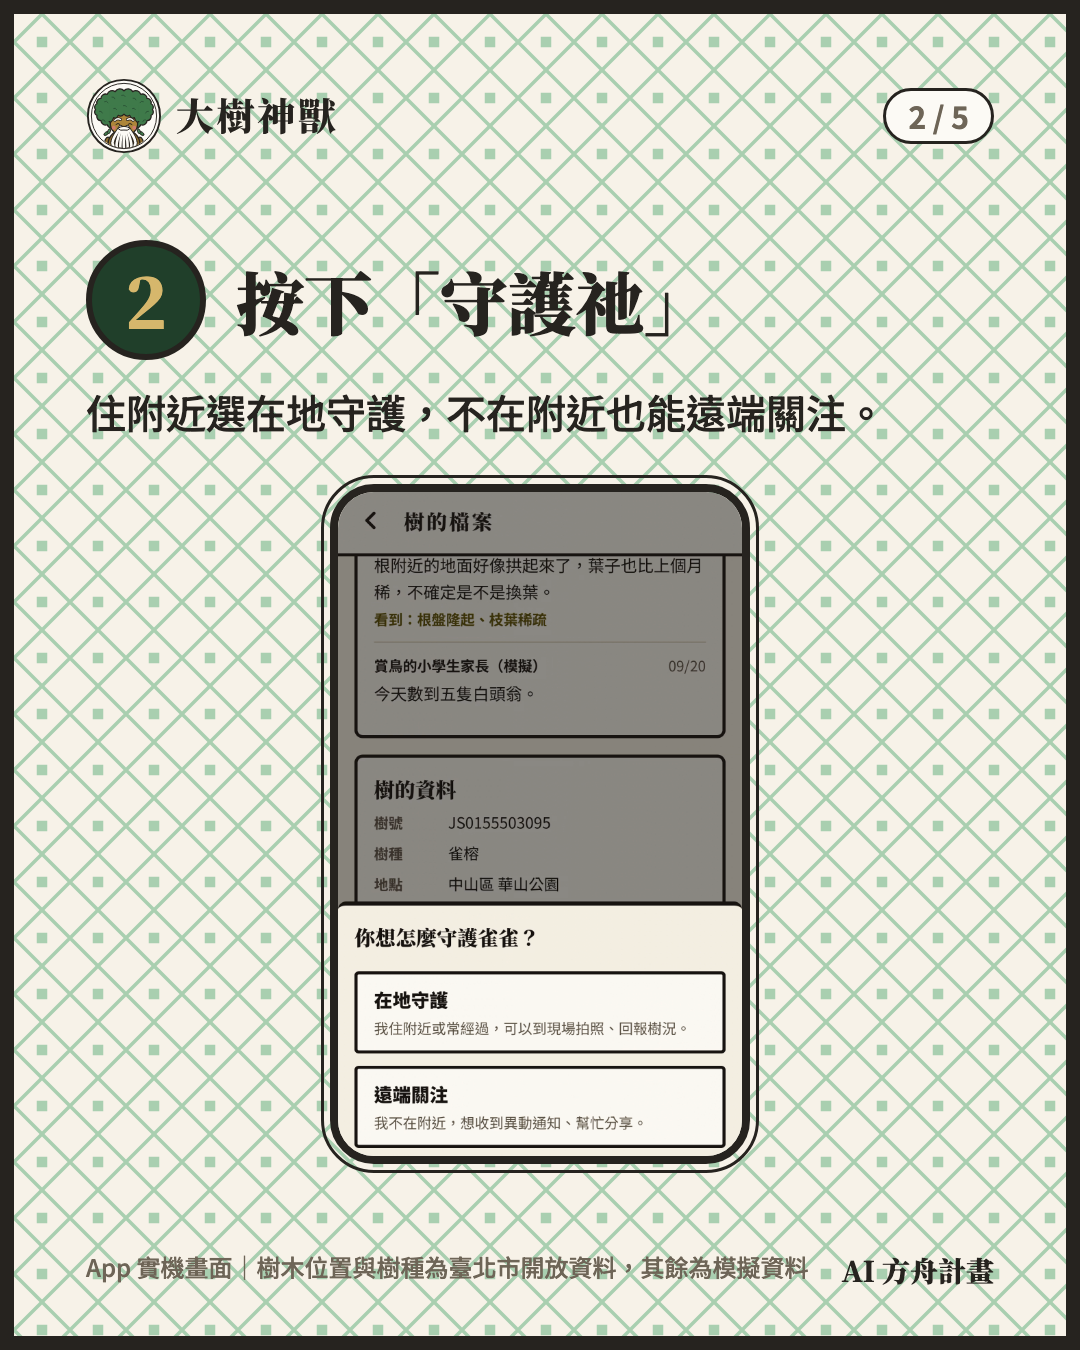
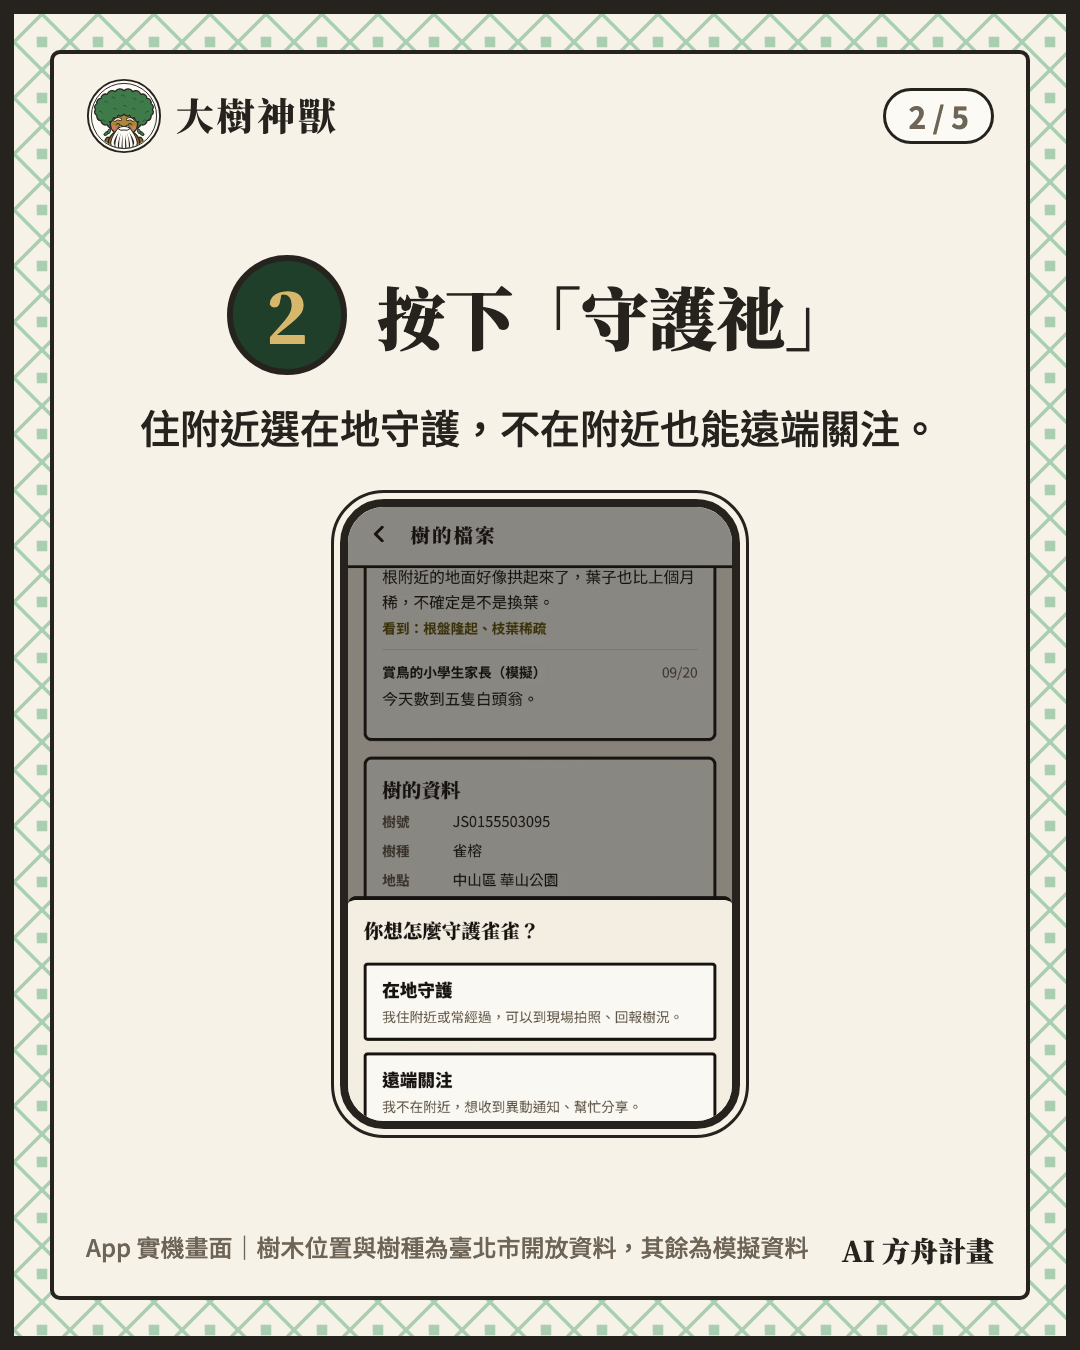
介紹頁成員連結移到卡片右下角；票選圖卡多項排版修正
介紹頁（about.html、css/about.css）
- LinkedIn、個人連結按鈕從卡片下方移進卡片裡，放在右下角；電腦版兩張卡的按鈕高度對齊，手機版靠右

票選圖卡（docs/vote-campaign/cards/）
- C1 Logo 置中
- C2-4 燕尾屋脊照 design-system Ridge 重做：右端鏡像、梁和兩端接起來
- C2-5 下排字置中，「去守護一棵樹」和投票網址中線對齊
- C3-1～C3-5、C5、C7 改成格紋只在外框；C3 標題、子標題置中，手機框縮小
- C6 倒數卡換不同神獸：剩 3 天欒四季、最後 24 小時雀雀、最後 3 小時鬚鬚公
- C7 手機框縮短，網址縮小、往下移，前面加「馬上試玩：」

Changed region(s): [[0.0306, 0.0311, 0.9778, 0.9644]]

diff --git a/docs/vote-campaign/cards/cards.html b/docs/vote-campaign/cards/cards.html
@@ -59,8 +59,13 @@
   .tag { display: inline-block; font: 700 30px/1 'Noto Sans TC'; border: 3px solid var(--outline); border-radius: 6px; padding: 12px 18px; background: var(--state-ok-bg); color: var(--state-ok-text); }
   .qr { background: #fff; border: 5px solid var(--outline); border-radius: 10px; padding: 14px; }
   .qr img, .qr canvas { display: block; }
-  .ridge { height: 34px; margin: 28px 0; background: url(../../../design-system/assets/patterns/ridge-end.svg) left center / auto 100% no-repeat, url(../../../design-system/assets/patterns/ridge-end.svg) right center / auto 100% no-repeat; position: relative; }
-  .ridge::after { content: ''; position: absolute; left: 60px; right: 60px; top: 50%; height: 6px; margin-top: -3px; background: var(--outline); }
+  /* 燕尾屋脊（照 design-system Ridge）：左右燕尾＋中間伸縮的梁，右端鏡像；顏色跟著 color。
+     燕尾用內嵌 SVG，不用 mask，因為 file:// 截圖時遮罩圖會被擋 */
+  .ridge { display: flex; align-items: flex-end; height: 36px; color: var(--outline); }
+  .ridge svg { width: 48px; height: 36px; flex: none; display: block; }
+  .ridge svg:last-child { transform: scaleX(-1); }
+  .ridge__beam { flex: 1; height: 6px; margin-bottom: 0; background: currentColor; }
+  .dark .ridge { color: var(--ink-50); }
   .beast { display: block; object-fit: contain; }
   .note { font: 400 22px/1.5 'Noto Sans TC'; color: var(--text-muted); }
   .dark .note { color: var(--ink-300); }
@@ -88,10 +93,10 @@
   .stepicon { width: 230px; height: 230px; }
   .shot { border: 6px solid var(--outline); border-radius: 14px; display: block; }
   /* 實機截圖：墨框手機，只露出上半部 */
-  .phone { width: 420px; height: 680px; margin: 0 auto; border: 8px solid var(--outline); border-radius: 44px; overflow: hidden; background: var(--surface-raised); outline: 3px solid var(--outline); outline-offset: 6px; flex: none; }
+  .phone { width: 400px; height: 630px; margin: 0 auto; border: 8px solid var(--outline); border-radius: 44px; overflow: hidden; background: var(--surface-raised); outline: 3px solid var(--outline); outline-offset: 6px; flex: none; }
   .phone img { width: 100%; display: block; }
-  .phones { display: flex; justify-content: center; gap: 28px; margin-top: 44px; }
-  .phones .phone { width: 296px; height: 700px; border-width: 6px; border-radius: 32px; outline: none; }
+  .phones { display: flex; justify-content: center; gap: 24px; margin-top: 44px; }
+  .phones .phone { width: 276px; height: 540px; border-width: 6px; border-radius: 32px; outline: none; }
   .phones p { text-align: center; font: 900 32px/1.3 'Noto Serif TC'; margin-top: 18px; }
 
   /* 神獸卡 */
@@ -131,16 +136,18 @@ const LOGO_REV = DS + 'logos/logo-horizontal-reverse.svg';
 const B = (slug, mood = 'healthy') => `${DS}character/beasts/${slug}/${mood}-cutout.png`;
 const ICON = (n) => `${DS}icons/${n}.svg`;
 const SHOT = (n) => `../screenshots/${n}.png`;
+// 燕尾一端，和 design-system/assets/patterns/ridge-end.svg 同一個路徑，改用 currentColor
+const RIDGE_END = '<svg viewBox="0 0 32 24" fill="none" stroke="currentColor" stroke-width="4" stroke-linecap="round" stroke-linejoin="round"><path d="M32 22 H14 C8 22 4 16 2 3"/><path d="M2 3 C8 12 14 16 26 18"/></svg>';
 const APP = 'https://2026-debugwithpuma.tree-god.workers.dev/';
 const APP_SHORT = '2026-debugwithpuma.tree-god.workers.dev';
 // 投票網址（10/24 確認）。改這裡要重新輸出 C1、C2-5、C6
 const VOTE_SHORT = 'puma.taipei/hackathon/vote';
 const DATA_NOTE = '樹木位置與樹種為臺北市開放資料，其餘為模擬資料';
 
-const head = (page, rev) => `<div class="vc__head"><img class="vc__logo" src="${rev ? LOGO_REV : LOGO}" alt="大樹神獸">${page ? `<span class="vc__page">${page}</span>` : ''}</div>`;
-const foot = (left = DATA_NOTE) => `<div class="vc__foot"><span>${left}</span><span class="vc__team">AI 方舟計畫</span></div>`;
+const head = (page, rev, center) => `<div class="vc__head"${center ? ' style="justify-content:center"' : ''}><img class="vc__logo" src="${rev ? LOGO_REV : LOGO}" alt="大樹神獸">${page ? `<span class="vc__page">${page}</span>` : ''}</div>`;
+const foot = (left = DATA_NOTE, center) => `<div class="vc__foot"${center ? ' style="justify-content:center;align-items:baseline;gap:28px"' : ''}><span>${left}</span><span class="vc__team">AI 方舟計畫</span></div>`;
 // 這幾張用「格紋只在外框」的底圖，字比較清楚（10/24 Qmoa 選）；其他卡用網址的 bg 參數，預設格紋
-const EDGE = new Set(['c1', 'c2-2', 'c2-3', 'c2-5']);
+const EDGE = new Set(['c1', 'c2-2', 'c2-3', 'c2-5', 'c5', 'c7', 'c3-1', 'c3-2', 'c3-3', 'c3-4', 'c3-5']);
 const card = (id, inner, { cls = '', inCls = '' } = {}) => ({ id, html: `<section class="vc ${cls}" data-id="${id}"${EDGE.has(id) ? ' data-bg="edge"' : ''}><div class="vc__in ${inCls}">${inner}</div></section>` });
 
 // 褐根病三個徵兆的插圖（平塗＋墨線）
@@ -168,7 +175,7 @@ const steps = [
 const CARDS = [
   // C1 主視覺／投票卡
   // C1 主視覺：只留一句話、神獸、投票期限三件事，其他資訊放貼文
-  card('c1', `${head()}
+  card('c1', `${head('', false, true)}
     <div class="vc__body" style="text-align:center">
       <h1 class="h1">讓台北每棵樹<br>都有一群<br><span class="green">守護祂的鄰居</span></h1>
       <div class="c1-beasts" style="margin-top:44px"><img src="${B('gadang')}" alt="" style="height:280px"><img src="${B('xuxugong')}" alt="" style="height:380px"><img src="${B('queque')}" alt="" style="height:280px"></div>
@@ -198,7 +205,7 @@ const CARDS = [
   card('c2-4', `${head('4 / 5', true)}
     <div class="vc__body" style="text-align:center">
       <h1 class="h1">不是沒人在乎，<br><span class="gold">是沒人知道。</span></h1>
-      <div class="ridge" style="margin:64px 80px;filter:invert(1)"></div>
+      <div class="ridge" style="margin:64px 80px">${RIDGE_END}<span class="ridge__beam"></span>${RIDGE_END}</div>
       <p class="lead">新種的小樹，樹冠要很多年才長得回來。<br>比起事後補種，<br>更要先守住現有的大樹。</p>
     </div>${foot('')}`, { inCls: 'dark' }),
   card('c2-5', `${head('5 / 5')}
@@ -209,16 +216,16 @@ const CARDS = [
       <div class="c1-ground"></div>
       <div style="display:flex;justify-content:center;align-items:center;gap:36px;margin-top:40px">
         <div class="qr" data-qr="${APP}" data-size="170"></div>
-        <div style="text-align:left"><div class="btn">去守護一棵樹</div><p class="p" style="margin-top:14px">投票：${VOTE_SHORT}</p></div>
+        <div style="text-align:center"><div class="btn">去守護一棵樹</div><p class="p" style="margin-top:14px">投票：${VOTE_SHORT}</p></div>
       </div>
-    </div>${foot()}`),
+    </div>${foot(DATA_NOTE, true)}`),
 
   // C3 怎麼玩（5 張）
   ...steps.map((s, i) => card(`c3-${i + 1}`, `${head(`${i + 1} / 5`)}
     <div class="vc__body">
-      ${i === 0 ? '<p class="lead green" style="font-weight:900">大樹神獸怎麼玩？</p>' : ''}
-      <div style="display:flex;align-items:center;gap:30px;margin:${i === 0 ? 14 : 0}px 0 20px"><span class="stepnum" style="width:120px;height:120px;font-size:68px">${i + 1}</span><h2 class="h2" style="font-size:68px">${s.t}</h2></div>
-      <p class="lead" style="margin-bottom:40px">${s.d}</p>
+      ${i === 0 ? '<p class="lead green" style="font-weight:900;text-align:center">大樹神獸怎麼玩？</p>' : ''}
+      <div style="display:flex;align-items:center;justify-content:center;gap:30px;margin:${i === 0 ? 14 : 0}px 0 20px"><span class="stepnum" style="width:120px;height:120px;font-size:68px">${i + 1}</span><h2 class="h2" style="font-size:68px">${s.t}</h2></div>
+      <p class="lead" style="margin-bottom:40px;text-align:center">${s.d}</p>
       <div class="phone"><img src="${SHOT(s.shot)}" alt=""></div>
     </div>${foot(i === 4 ? APP_SHORT : 'App 實機畫面｜' + DATA_NOTE)}`)),
 
@@ -232,7 +239,7 @@ const CARDS = [
         <div><div class="phone"><img src="${SHOT('02-神獸頁')}" alt=""></div><p>守護祂</p></div>
         <div><div class="phone"><img src="${SHOT('05-回報完成')}" alt=""></div><p>回報樹況</p></div>
       </div>
-      <p class="p" style="text-align:center;margin-top:30px"><b>${APP_SHORT}</b></p>
+      <p style="text-align:center;margin-top:64px;font:500 28px/1.4 'Noto Sans TC'">馬上試玩：<b>${APP_SHORT}</b></p>
     </div>${foot('App 實機畫面｜' + DATA_NOTE)}`),
 
   // C4 神獸介紹（4 張）
@@ -266,11 +273,11 @@ const CARDS = [
     </div>${foot('大樹神獸｜' + APP_SHORT)}`),
 
   // C6 限動倒數（9:16）
-  ...[['c6-3d', '剩', '3', '天'], ['c6-1d', '最後', '24', '小時'], ['c6-3h', '最後', '3', '小時']].map(([id, pre, n, unit]) => card(id, `${head('', true)}
+  ...[['c6-3d', '剩', '3', '天', 'luan'], ['c6-1d', '最後', '24', '小時', 'queque'], ['c6-3h', '最後', '3', '小時', 'xuxugong']].map(([id, pre, n, unit, beast]) => card(id, `${head('', true)}
     <div class="vc__body">
       <p class="h3" style="color:var(--ink-50)">線上票選</p>
       <div class="count" style="margin:36px 0 10px"><small>${pre}</small>${n}<small>${unit}</small></div>
-      <img src="${B('xuxugong')}" alt="" style="height:560px;margin:30px auto 0">
+      <img src="${B(beast)}" alt="" style="height:560px;margin:30px auto 0">
       <div class="plaque" style="margin:40px auto 0">10/31（六）18:00 截止</div>
       <p class="lead" style="margin-top:30px">Google 或 LINE 登入，每人可投 3 件作品<br><b>${VOTE_SHORT}</b></p>
     </div>${foot('')}`, { cls: 'story', inCls: 'dark' })),

diff --git a/about.html b/about.html
@@ -269,24 +269,24 @@
         <div class="ab-member-col">
           <article class="ab-card ab-member">
             <div class="ab-member__avatar"><img src="assets/team/qmoa.jpg" alt="Qmoa" width="96" height="96"></div>
-            <div>
+            <div class="ab-member__body">
               <h3 class="ab-member__name">Qmoa</h3>
               <p class="ab-member__role">產品構想、故事創作、品牌塑造、介面設計、Demo 簡報與影片製作</p>
               <p class="ab-member__bio">我是 AI 品牌創辦人捲毛，喜歡新鮮有趣事物的社群人，也是品牌經營者，具有數據、零售電商與行銷背景。</p>
+              <a class="dsh-btn dsh-btn--secondary ab-member__li" data-link="linkedinQmoa" href="" target="_blank" rel="noopener" hidden>LinkedIn</a>
             </div>
           </article>
-          <a class="dsh-btn dsh-btn--secondary ab-member__li" data-link="linkedinQmoa" href="" target="_blank" rel="noopener" hidden>LinkedIn</a>
         </div>
         <div class="ab-member-col">
           <article class="ab-card ab-member">
             <div class="ab-member__avatar"><img src="assets/team/saori.jpg" alt="Saori" width="96" height="96"></div>
-            <div>
+            <div class="ab-member__body">
               <h3 class="ab-member__name">Saori</h3>
               <p class="ab-member__role">系統架構、技術選型與 App 開發（地圖、神獸頁、守護、掃描、回報、異動警報、社區佈告欄、圖鑑、分享卡），PWA 與上線部署</p>
               <p class="ab-member__bio">軟體工程師，C# 資歷最深。曾任副理，帶電商團隊從零開發到上線；現任系統分析師。</p>
+              <a class="dsh-btn dsh-btn--secondary ab-member__li" data-link="linkedinSaori" href="" target="_blank" rel="noopener" hidden>個人連結</a>
             </div>
           </article>
-          <a class="dsh-btn dsh-btn--secondary ab-member__li" data-link="linkedinSaori" href="" target="_blank" rel="noopener" hidden>個人連結</a>
         </div>
       </div>
       <div class="ab-intro">

diff --git a/css/about.css b/css/about.css
@@ -112,8 +112,8 @@
 .ab-intro p { margin: 0 0 var(--space-2); }
 .ab-intro p:last-child { margin-bottom: 0; }
 .ab .ab-intro a { color: var(--honor-on-dark); font-weight: 700; }
-.ab-member { color: var(--text); display: flex; gap: var(--space-4); align-items: flex-start; }
-.ab-member__avatar { flex: none; width: 72px; height: 72px; border-radius: 50%; border: var(--stroke-ui) solid var(--outline); background: var(--surface); overflow: hidden; }
+.ab-member { color: var(--text); display: flex; gap: var(--space-4); align-items: stretch; }
+.ab-member__avatar { align-self: flex-start; flex: none; width: 72px; height: 72px; border-radius: 50%; border: var(--stroke-ui) solid var(--outline); background: var(--surface); overflow: hidden; }
 .ab-member__avatar img { width: 100%; height: 100%; object-fit: cover; }
 .ab-member__name { margin: 0; font-family: var(--font-display); font-weight: 900; font-size: 24px; line-height: 32px; }
 .ab-member__role { margin: var(--space-1) 0 0; font-size: 15px; line-height: 24px; }
@@ -121,7 +121,10 @@
 /* 個人連結按鈕放在卡片下方，不擠在卡片裡 */
 .ab-member-col { display: flex; flex-direction: column; align-items: flex-start; align-self: stretch; gap: var(--space-4); }
 .ab-member-col > .ab-member { flex: 1; width: 100%; }
-.ab-member__li { font-weight: 700; }
+/* 連結按鈕放在卡片右下角；兩張卡等高時按鈕也對齊 */
+.ab-member__body { flex: 1; display: flex; flex-direction: column; }
+.ab-member__li { font-weight: 700; align-self: flex-end; margin-top: auto; }
+.ab-member__bio { padding-bottom: var(--space-3); }
 
 /* 頁尾 */
 .ab-foot { padding: var(--space-8) 0 var(--space-12); font-size: 14px; line-height: 24px; color: var(--text-muted); }
